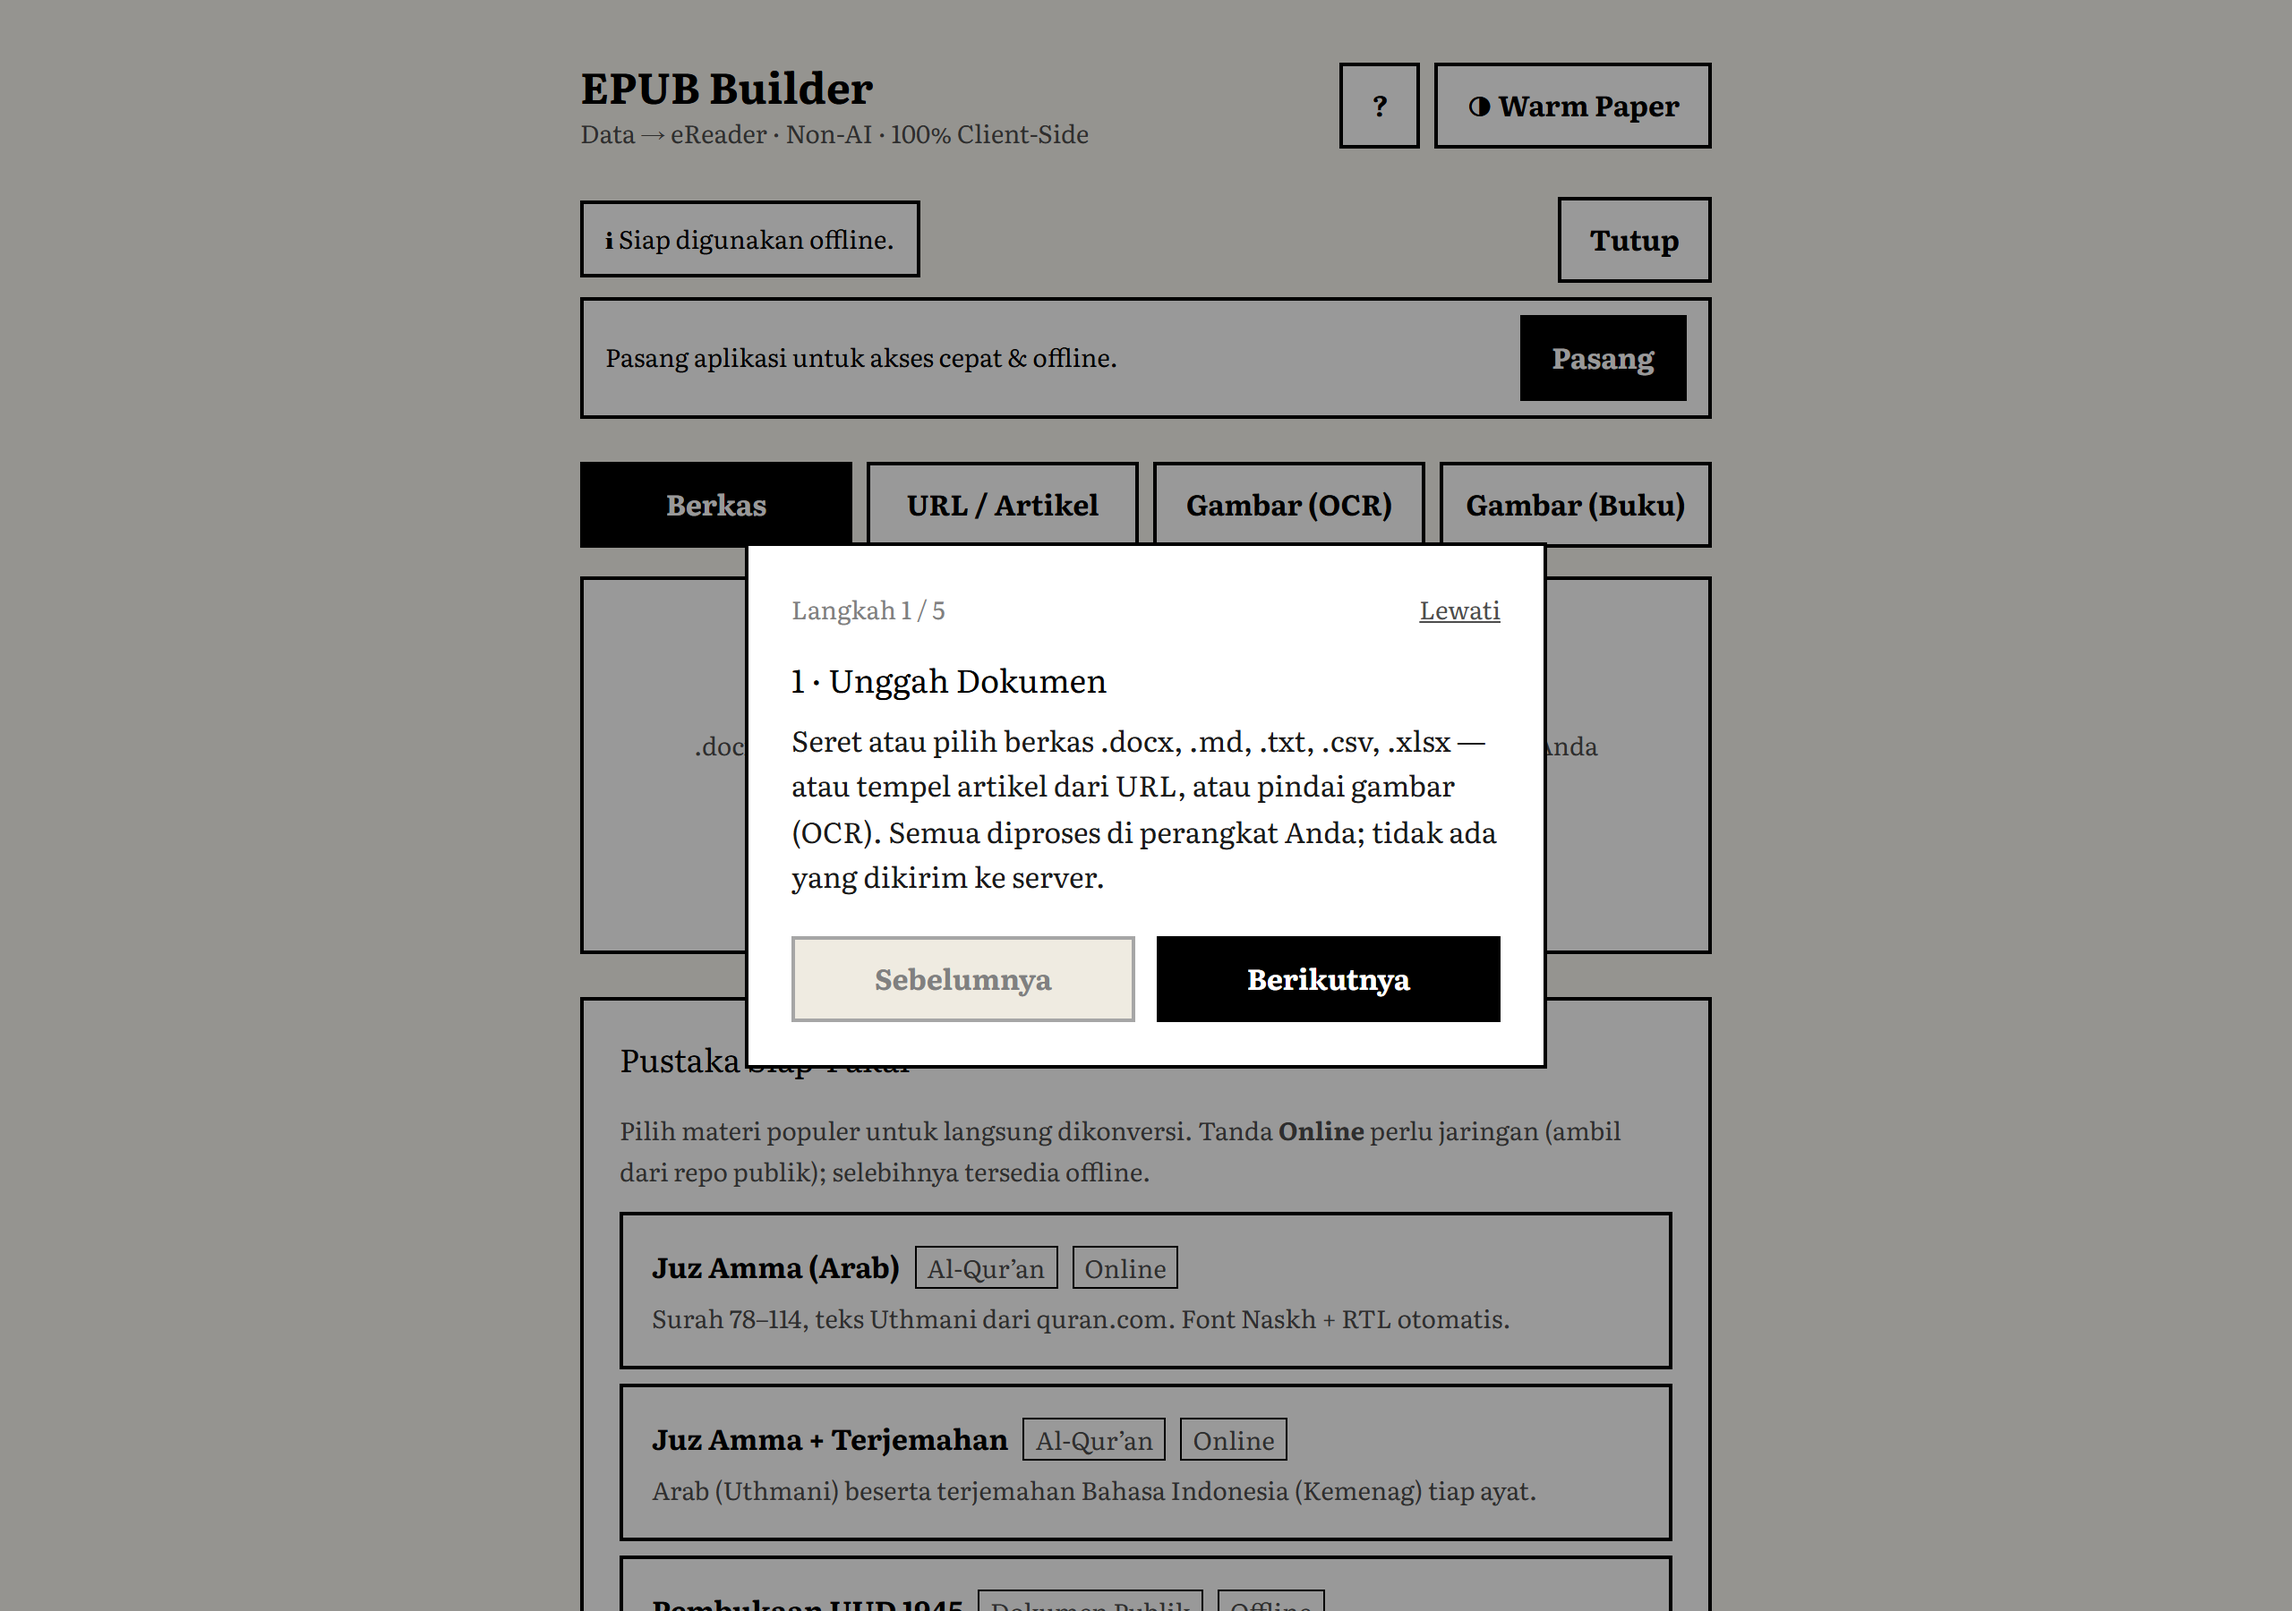
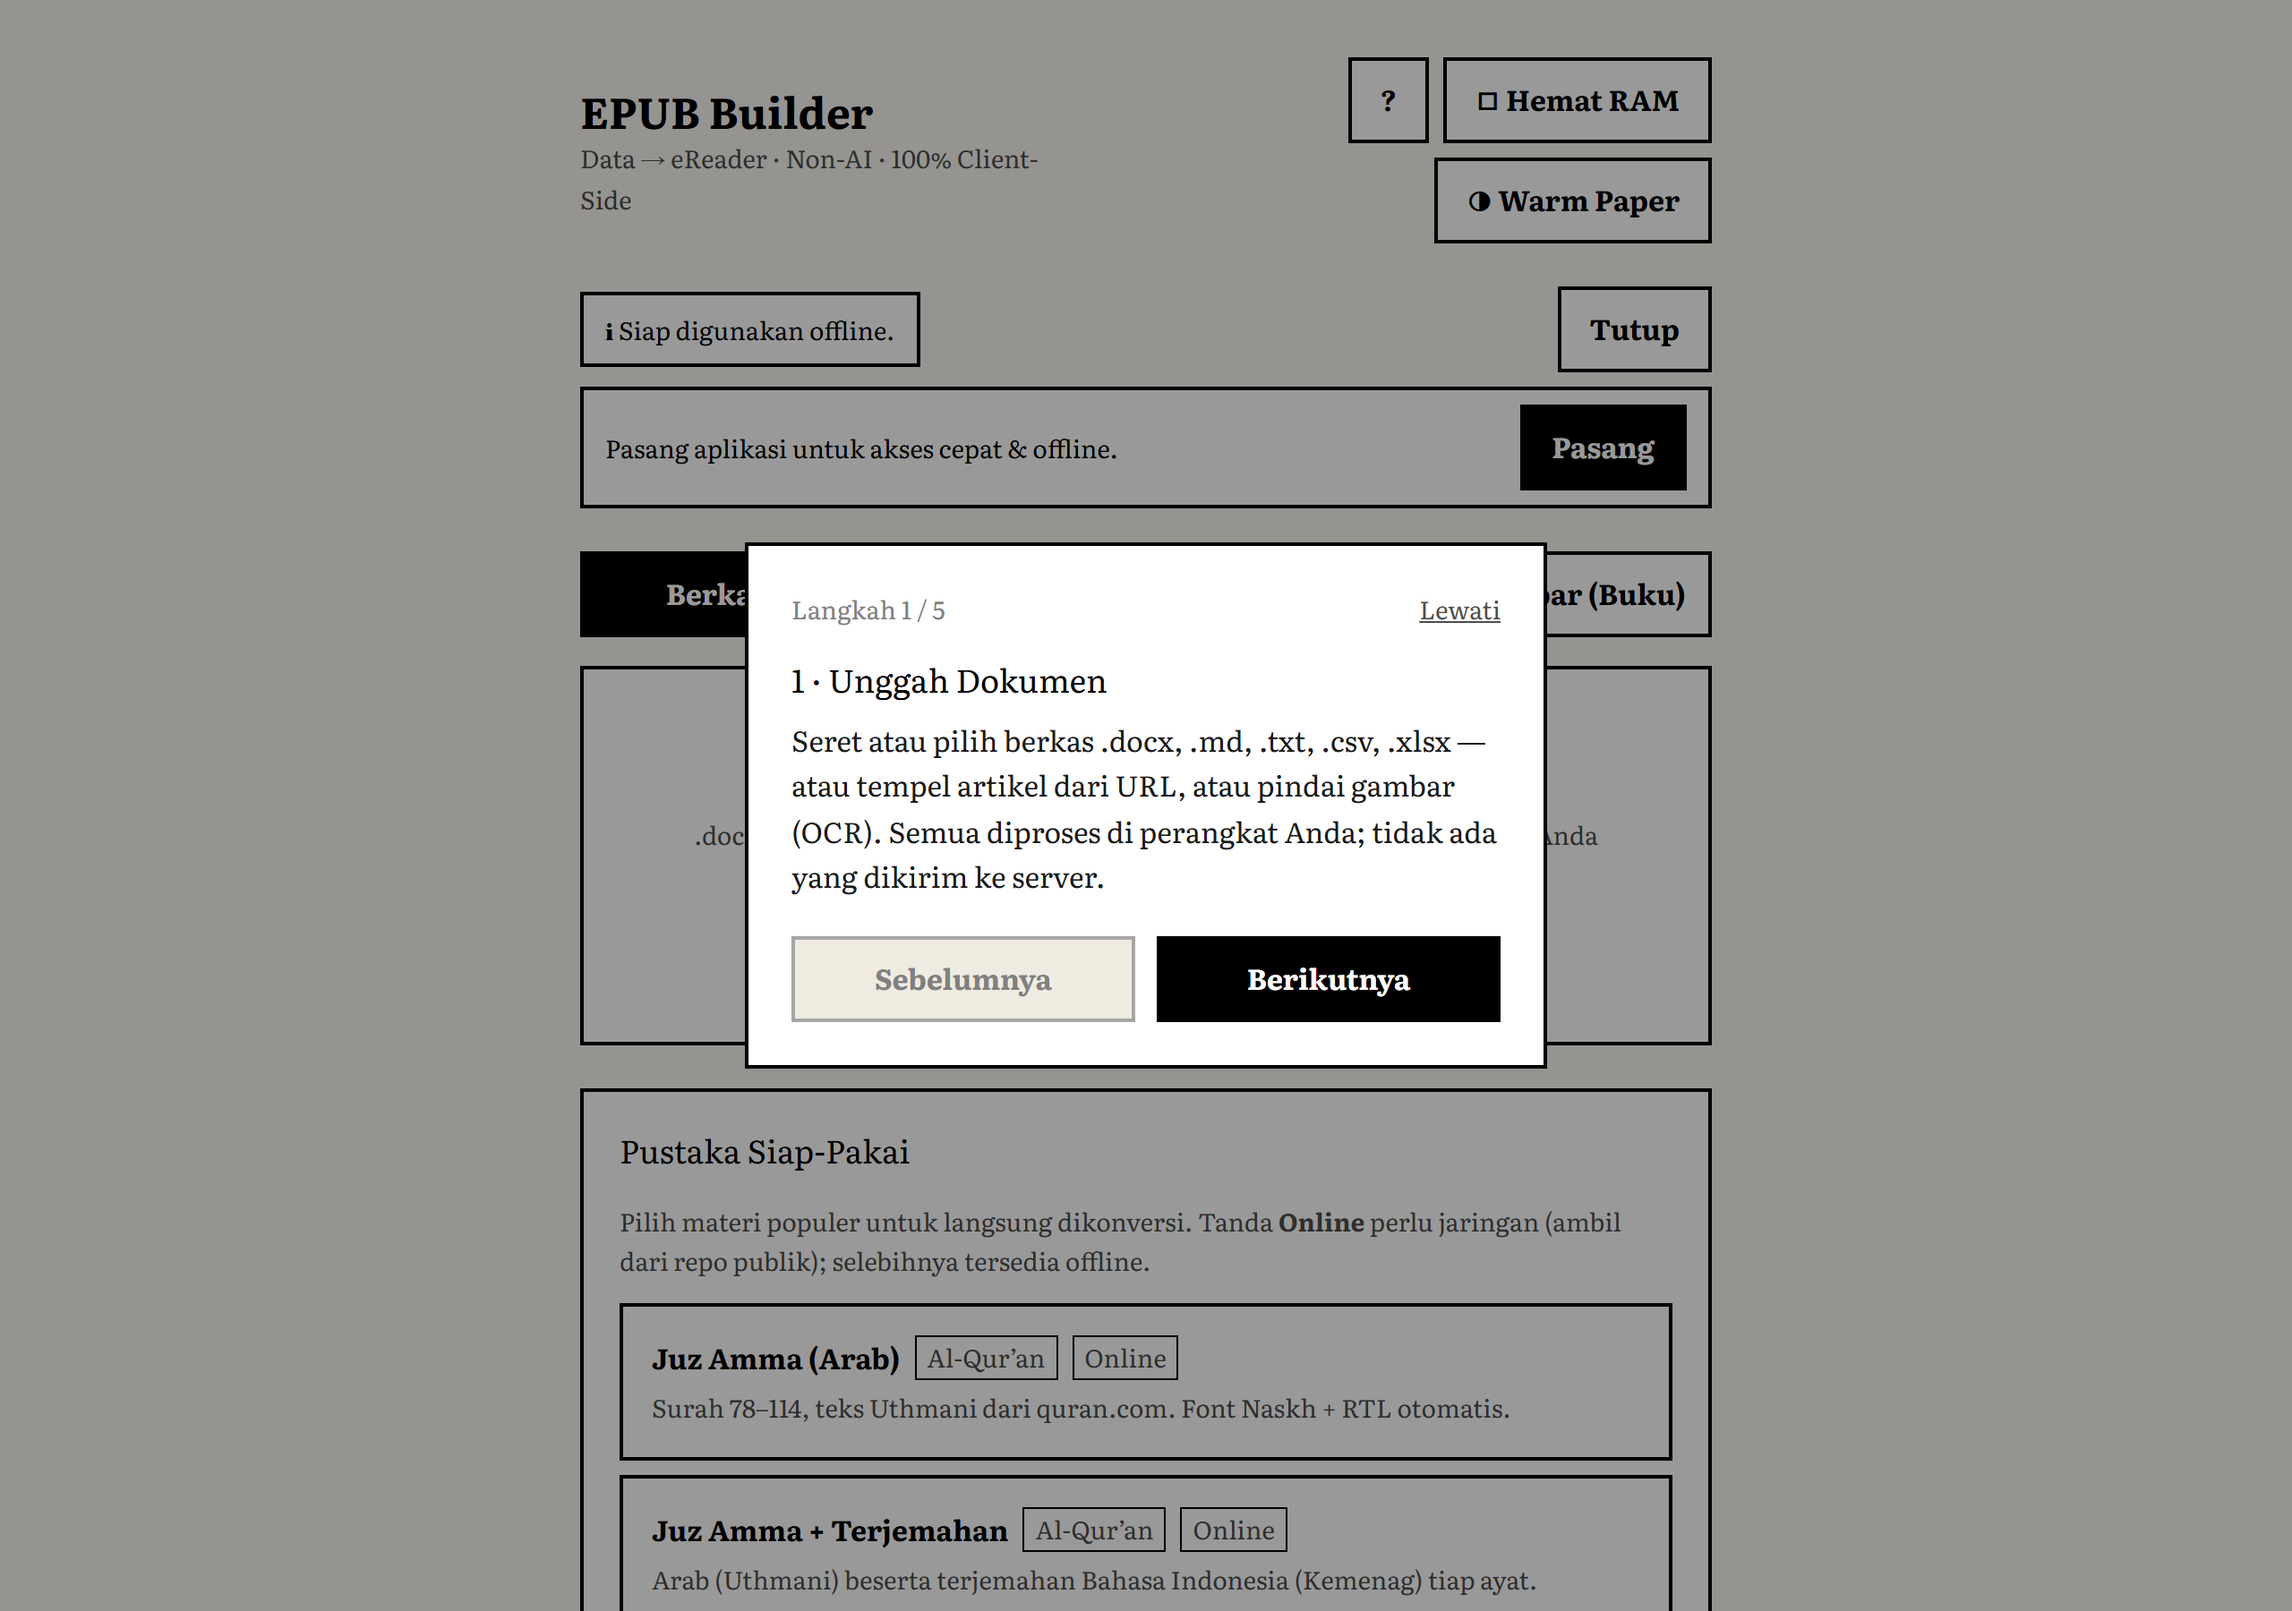
feat(ui): fallback peramban tak didukung + Mode Hemat Memori (RAM kecil)
Fitur 1 — deteksi peramban:
- index.html: pesan fallback statis (inline) + deteksi fitur ES5-safe
  (Promise/fetch/Blob/Uint8Array/Canvas) + <script nomodule> untuk peramban tanpa
  ES Modules (mis. browser bawaan Kindle lama) -> tampilkan panduan Send-to-Kindle
- main.tsx: tidak mount React bila __EPUB_UNSUPPORTED__

Fitur 2 — Mode Hemat Memori:
- useLowMemory: auto-aktif bila navigator.deviceMemory <= 2GB, toggle manual
  tersimpan di localStorage
- ConverterApp: tombol toggle 'Hemat RAM' di header; saat aktif sembunyikan picker
  CJK (+ catatan) & reset cjkFontId
- InputPanel: sembunyikan tab 'Gambar (OCR)' saat Mode Hemat Memori

Regenerasi 14 screenshot (header + tombol baru).

diff --git a/src/ui/ConverterApp.tsx b/src/ui/ConverterApp.tsx
@@ -16,6 +16,7 @@ import { useConverter } from './useConverter'
 import { useImmersion } from './useImmersion'
 import { useOnboarding } from './useOnboarding'
 import { useOnline } from './useOnline'
+import { useLowMemory } from './useLowMemory'
 import { Toasts } from './Toasts'
 import { pushToast } from './toast'
 import { CJK_FONT_CHOICES } from '@fonts'
@@ -54,6 +55,7 @@ export function ConverterApp() {
   const immersion = useImmersion()
   const onboarding = useOnboarding()
   const online = useOnline()
+  const lowMem = useLowMemory()
   const busy = c.status === 'parsing' || c.status === 'building'
   const loaded = c.ir !== null
   const isImageBook = c.ir?.meta.source === 'image-book'
@@ -63,6 +65,13 @@ export function ConverterApp() {
   // Bab yang sedang dipratinjau di Live Simulator (diklik dari Daftar Bab).
   const [previewIndex, setPreviewIndex] = useState(0)
   useEffect(() => setPreviewIndex(0), [c.ir])
+
+  // Mode Hemat Memori: batalkan embed font CJK yang mungkin sudah dipilih
+  // (picker-nya disembunyikan) agar build tak mengunduh font besar.
+  const setCjkFontId = c.setCjkFontId
+  useEffect(() => {
+    if (lowMem.on) setCjkFontId(null)
+  }, [lowMem.on, setCjkFontId])
   const chapterCount = c.ir?.chapters.length ?? 0
   const activeIndex = Math.min(previewIndex, Math.max(0, chapterCount - 1))
 
@@ -82,7 +91,7 @@ export function ConverterApp() {
             Data&nbsp;→&nbsp;eReader · Non-AI · 100% Client-Side
           </p>
         </div>
-        <div className="flex gap-2">
+        <div className="flex flex-wrap justify-end gap-2">
           <button
             type="button"
             className="btn-eink px-4"
@@ -91,6 +100,15 @@ export function ConverterApp() {
             aria-label="Buka panduan"
           >
             ?
+          </button>
+          <button
+            type="button"
+            className={`btn-eink px-4 ${lowMem.on ? 'btn-eink--inverted' : ''}`}
+            onClick={lowMem.toggle}
+            aria-pressed={lowMem.on}
+            title="Mode Hemat Memori: sembunyikan OCR & font CJK (untuk perangkat RAM kecil, mis. E-Ink 2GB)"
+          >
+            {lowMem.on ? '◼ Hemat RAM' : '◻ Hemat RAM'}
           </button>
           <button
             type="button"
@@ -119,6 +137,7 @@ export function ConverterApp() {
           <InputPanel
             busy={busy}
             online={online}
+            lowMemory={lowMem.on}
             ocrProgress={c.ocrProgress}
             onFile={c.loadFile}
             onUrl={c.loadUrl}
@@ -277,7 +296,16 @@ export function ConverterApp() {
                       Sematkan font (embed) — penting untuk skrip Arab/non-Latin
                     </span>
                   </label>
-                  {c.ir.meta.script === 'cjk' && (
+                  {c.ir.meta.script === 'cjk' && lowMem.on && (
+                    <div className="border-t border-paper-line pt-4">
+                      <Alert tone="warning">
+                        Mode Hemat Memori aktif — embed font CJK (unduh 9–18 MB lalu subset)
+                        dinonaktifkan. EPUB memakai font CJK bawaan eReader. Matikan Mode Hemat
+                        Memori di atas bila ingin menyematkan font CJK.
+                      </Alert>
+                    </div>
+                  )}
+                  {c.ir.meta.script === 'cjk' && !lowMem.on && (
                     <div className="flex flex-col gap-2 border-t border-paper-line pt-4">
                       <span className="font-ui text-body-lg text-ink">
                         Font CJK (China/Jepang/Korea) — tidak dibundel, unduh saat build

diff --git a/index.html b/index.html
@@ -14,6 +14,65 @@
   </head>
   <body>
     <div id="root"></div>
+
+    <!-- Pesan fallback untuk peramban tak didukung (mis. browser bawaan Kindle lama).
+         Ditulis dengan gaya inline agar tetap tampil walau bundle aplikasi tak termuat. -->
+    <div
+      id="unsupported"
+      style="display: none; max-width: 640px; margin: 0 auto; padding: 40px 24px; font-family: Georgia, 'Times New Roman', serif; color: #000"
+    >
+      <div style="border: 2px solid #000; background: #fff; padding: 24px">
+        <h1 style="margin: 0 0 12px; font-size: 22px">Peramban tidak didukung</h1>
+        <p style="margin: 0 0 12px; font-size: 16px; line-height: 1.6">
+          <strong>EPUB Builder</strong> memerlukan peramban modern (Chrome, Edge, Firefox, atau
+          Safari terbaru) — termasuk e-reader <strong>Android</strong> seperti Bigme / Onyx Boox.
+        </p>
+        <p style="margin: 0 0 12px; font-size: 16px; line-height: 1.6">
+          Peramban bawaan <strong>Kindle lama</strong> (Experimental Browser) tidak mendukung
+          teknologi yang dibutuhkan aplikasi ini (JavaScript modern, WebAssembly, Worker, Canvas).
+        </p>
+        <p style="margin: 0; font-size: 16px; line-height: 1.6">
+          Solusi: buka aplikasi ini di <strong>ponsel</strong> atau <strong>komputer</strong> untuk
+          membuat EPUB, lalu kirim berkas <strong>.epub</strong> ke Kindle Anda lewat
+          <strong>Send-to-Kindle</strong>. Berkas EPUB-nya sendiri tetap kompatibel dengan Kindle lama.
+        </p>
+      </div>
+    </div>
+
+    <!-- Deteksi fitur (ES5-safe): jalan di semua peramban, termasuk yang sangat tua.
+         Bila API inti tak ada, tampilkan pesan fallback dan jangan mount aplikasi. -->
+    <script>
+      (function () {
+        function supported() {
+          return (
+            typeof window.Promise === 'function' &&
+            typeof window.fetch === 'function' &&
+            typeof window.Blob === 'function' &&
+            typeof window.Uint8Array === 'function' &&
+            typeof document.createElement('canvas').getContext === 'function'
+          )
+        }
+        if (!supported()) {
+          window.__EPUB_UNSUPPORTED__ = true
+          var u = document.getElementById('unsupported')
+          var r = document.getElementById('root')
+          if (u) u.style.display = 'block'
+          if (r) r.style.display = 'none'
+        }
+      })()
+    </script>
+
     <script type="module" src="/src/main.tsx"></script>
+
+    <!-- Peramban tanpa dukungan ES Modules (mis. Kindle lama) mengabaikan skrip modul
+         di atas; skrip nomodule ini yang berjalan untuk menampilkan pesan fallback. -->
+    <script nomodule>
+      (function () {
+        var u = document.getElementById('unsupported')
+        var r = document.getElementById('root')
+        if (u) u.style.display = 'block'
+        if (r) r.style.display = 'none'
+      })()
+    </script>
   </body>
 </html>

diff --git a/src/ui/InputPanel.tsx b/src/ui/InputPanel.tsx
@@ -3,7 +3,7 @@
  * dan Gambar/OCR (Tesseract lazy). Semua 100% client-side (kecuali unduhan data
  * latih OCR & fetch URL yang tunduk CORS).
  */
-import { useState } from 'react'
+import { useEffect, useState } from 'react'
 import { Dropzone } from './Dropzone'
 import { Alert, SegmentedOption } from './primitives'
 
@@ -19,6 +19,7 @@ const OCR_LANGS: { value: string; label: string }[] = [
 export function InputPanel({
   busy,
   online,
+  lowMemory,
   ocrProgress,
   onFile,
   onUrl,
@@ -28,6 +29,8 @@ export function InputPanel({
 }: {
   busy: boolean
   online: boolean
+  /** Mode Hemat Memori: sembunyikan tab OCR (boros RAM). */
+  lowMemory?: boolean
   ocrProgress: number | null
   onFile: (file: File) => void
   onUrl: (url: string) => void
@@ -40,6 +43,11 @@ export function InputPanel({
   const [html, setHtml] = useState('')
   const [lang, setLang] = useState('ind+eng')
 
+  // Jika Mode Hemat Memori dinyalakan saat tab OCR aktif, kembalikan ke Berkas.
+  useEffect(() => {
+    if (lowMemory && tab === 'ocr') setTab('file')
+  }, [lowMemory, tab])
+
   return (
     <div className="flex flex-col gap-4">
       <div className="flex gap-2" role="group" aria-label="Pilih sumber masukan">
@@ -49,9 +57,11 @@ export function InputPanel({
         <SegmentedOption active={tab === 'url'} onClick={() => setTab('url')} disabled={busy}>
           URL / Artikel
         </SegmentedOption>
-        <SegmentedOption active={tab === 'ocr'} onClick={() => setTab('ocr')} disabled={busy}>
-          Gambar (OCR)
-        </SegmentedOption>
+        {!lowMemory && (
+          <SegmentedOption active={tab === 'ocr'} onClick={() => setTab('ocr')} disabled={busy}>
+            Gambar (OCR)
+          </SegmentedOption>
+        )}
         <SegmentedOption active={tab === 'imagebook'} onClick={() => setTab('imagebook')} disabled={busy}>
           Gambar (Buku)
         </SegmentedOption>

diff --git a/src/ui/useLowMemory.ts b/src/ui/useLowMemory.ts
@@ -1,0 +1,41 @@
+import { useCallback, useState } from 'react'
+
+/**
+ * Mode Hemat Memori: untuk perangkat E-Ink / ponsel RAM kecil (≤2GB).
+ * Saat aktif, fitur boros memori disembunyikan/dinonaktifkan — OCR (Tesseract,
+ * mengunduh & memproses data latih di RAM) dan embed font CJK (unduh 9–18MB
+ * lalu subset). Default auto dari `navigator.deviceMemory`; pilihan manual
+ * disimpan di localStorage.
+ */
+const STORAGE_KEY = 'epub-builder:low-memory'
+
+function detectDefault(): boolean {
+  try {
+    const stored = localStorage.getItem(STORAGE_KEY)
+    if (stored === '1') return true
+    if (stored === '0') return false
+  } catch {
+    /* mode privat: abaikan */
+  }
+  // deviceMemory dalam GB (perkiraan, dibulatkan peramban). ≤2 → aktifkan.
+  const mem = (navigator as Navigator & { deviceMemory?: number }).deviceMemory
+  return typeof mem === 'number' && mem <= 2
+}
+
+export function useLowMemory() {
+  const [on, setOn] = useState<boolean>(detectDefault)
+
+  const toggle = useCallback(() => {
+    setOn((v) => {
+      const next = !v
+      try {
+        localStorage.setItem(STORAGE_KEY, next ? '1' : '0')
+      } catch {
+        /* abaikan */
+      }
+      return next
+    })
+  }, [])
+
+  return { on, toggle }
+}

diff --git a/src/main.tsx b/src/main.tsx
@@ -3,8 +3,12 @@ import { createRoot } from 'react-dom/client'
 import App from './App'
 import './styles/index.css'
 
-createRoot(document.getElementById('root')!).render(
-  <StrictMode>
-    <App />
-  </StrictMode>,
-)
+// Bila deteksi fitur di index.html menandai peramban tak didukung (mis. browser
+// bawaan Kindle lama), jangan mount — pesan fallback statis sudah ditampilkan.
+if (!(window as unknown as { __EPUB_UNSUPPORTED__?: boolean }).__EPUB_UNSUPPORTED__) {
+  createRoot(document.getElementById('root')!).render(
+    <StrictMode>
+      <App />
+    </StrictMode>,
+  )
+}
